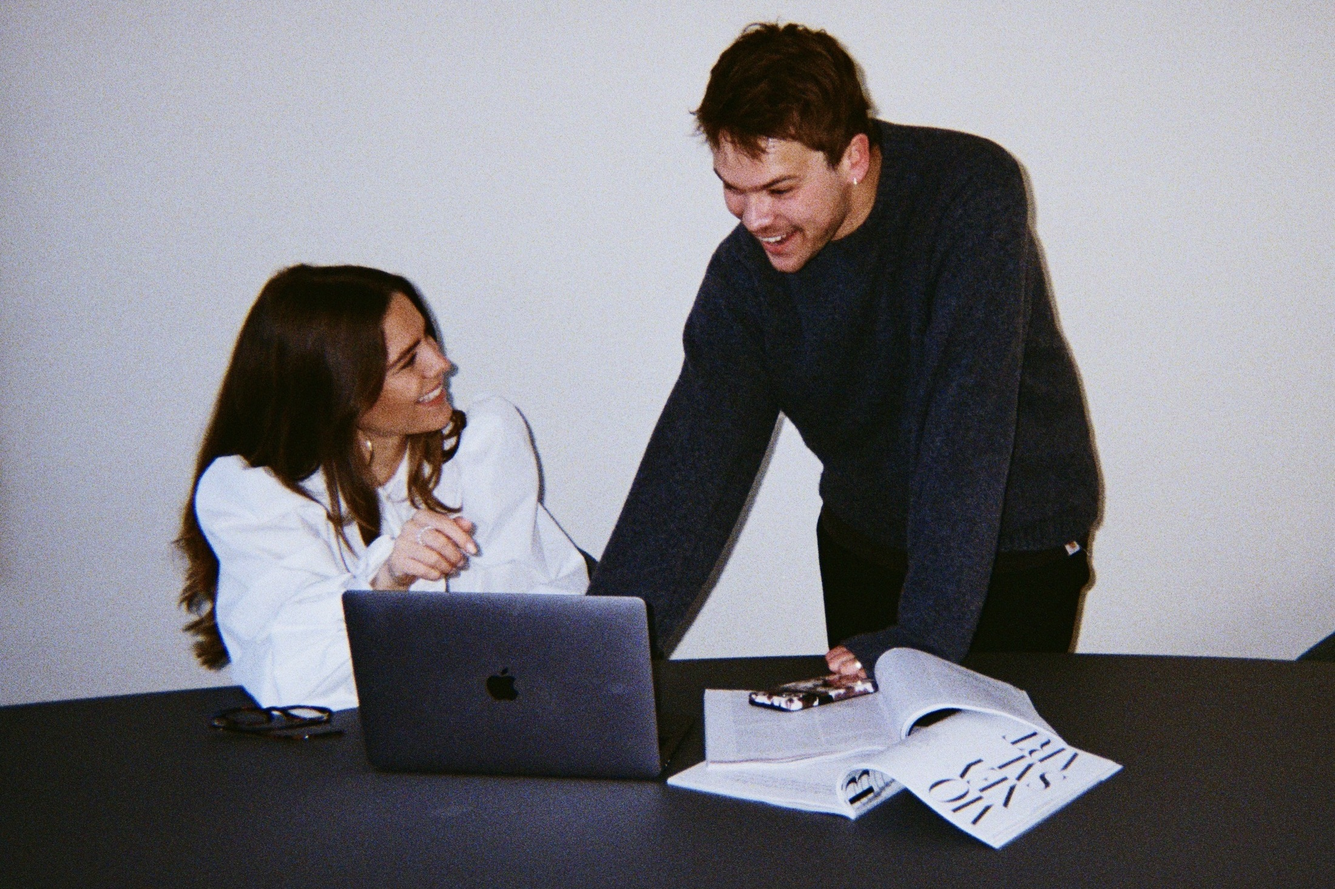
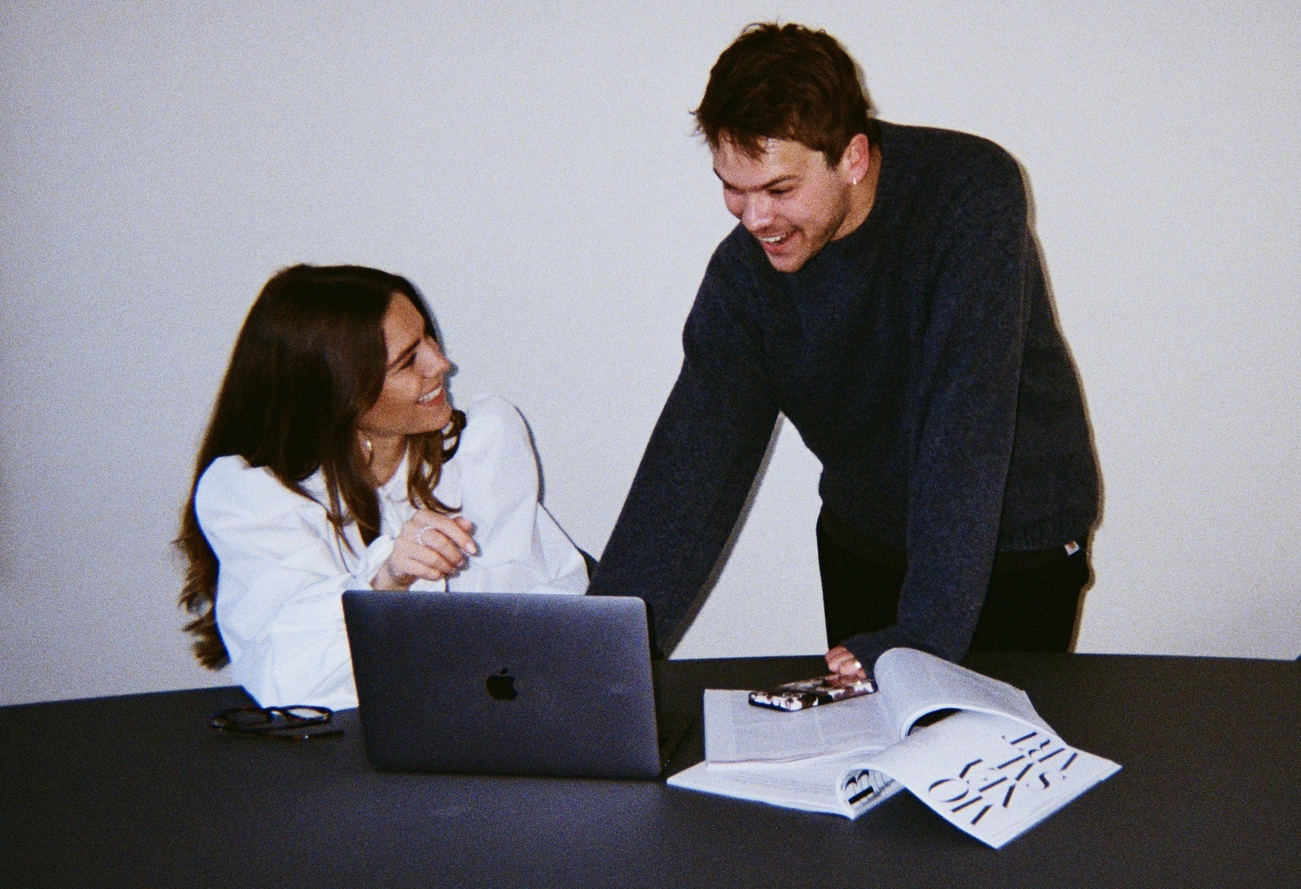
Crop the stray edge off the homepage hero photo's right side
Trimmed ~2.5% off the right edge of home-hero-5.jpg to remove the small
artifact the user kept spotting there, and dropped the defensive zoom prop
from the earlier attempt now that the actual file is fixed.

diff --git a/components/pages/HomePage.tsx b/components/pages/HomePage.tsx
@@ -160,7 +160,7 @@ export function HomePage({ lang }: { lang: Lang }) {
               </div>
             </div>
           </div>
-          <Photo src="/photography/home-hero-5.jpg" alt={c.heroAlt} ratio="3 / 2" priority zoom={1.03} />
+          <Photo src="/photography/home-hero-5.jpg" alt={c.heroAlt} ratio="3 / 2" priority />
         </div>
       </section>
 
